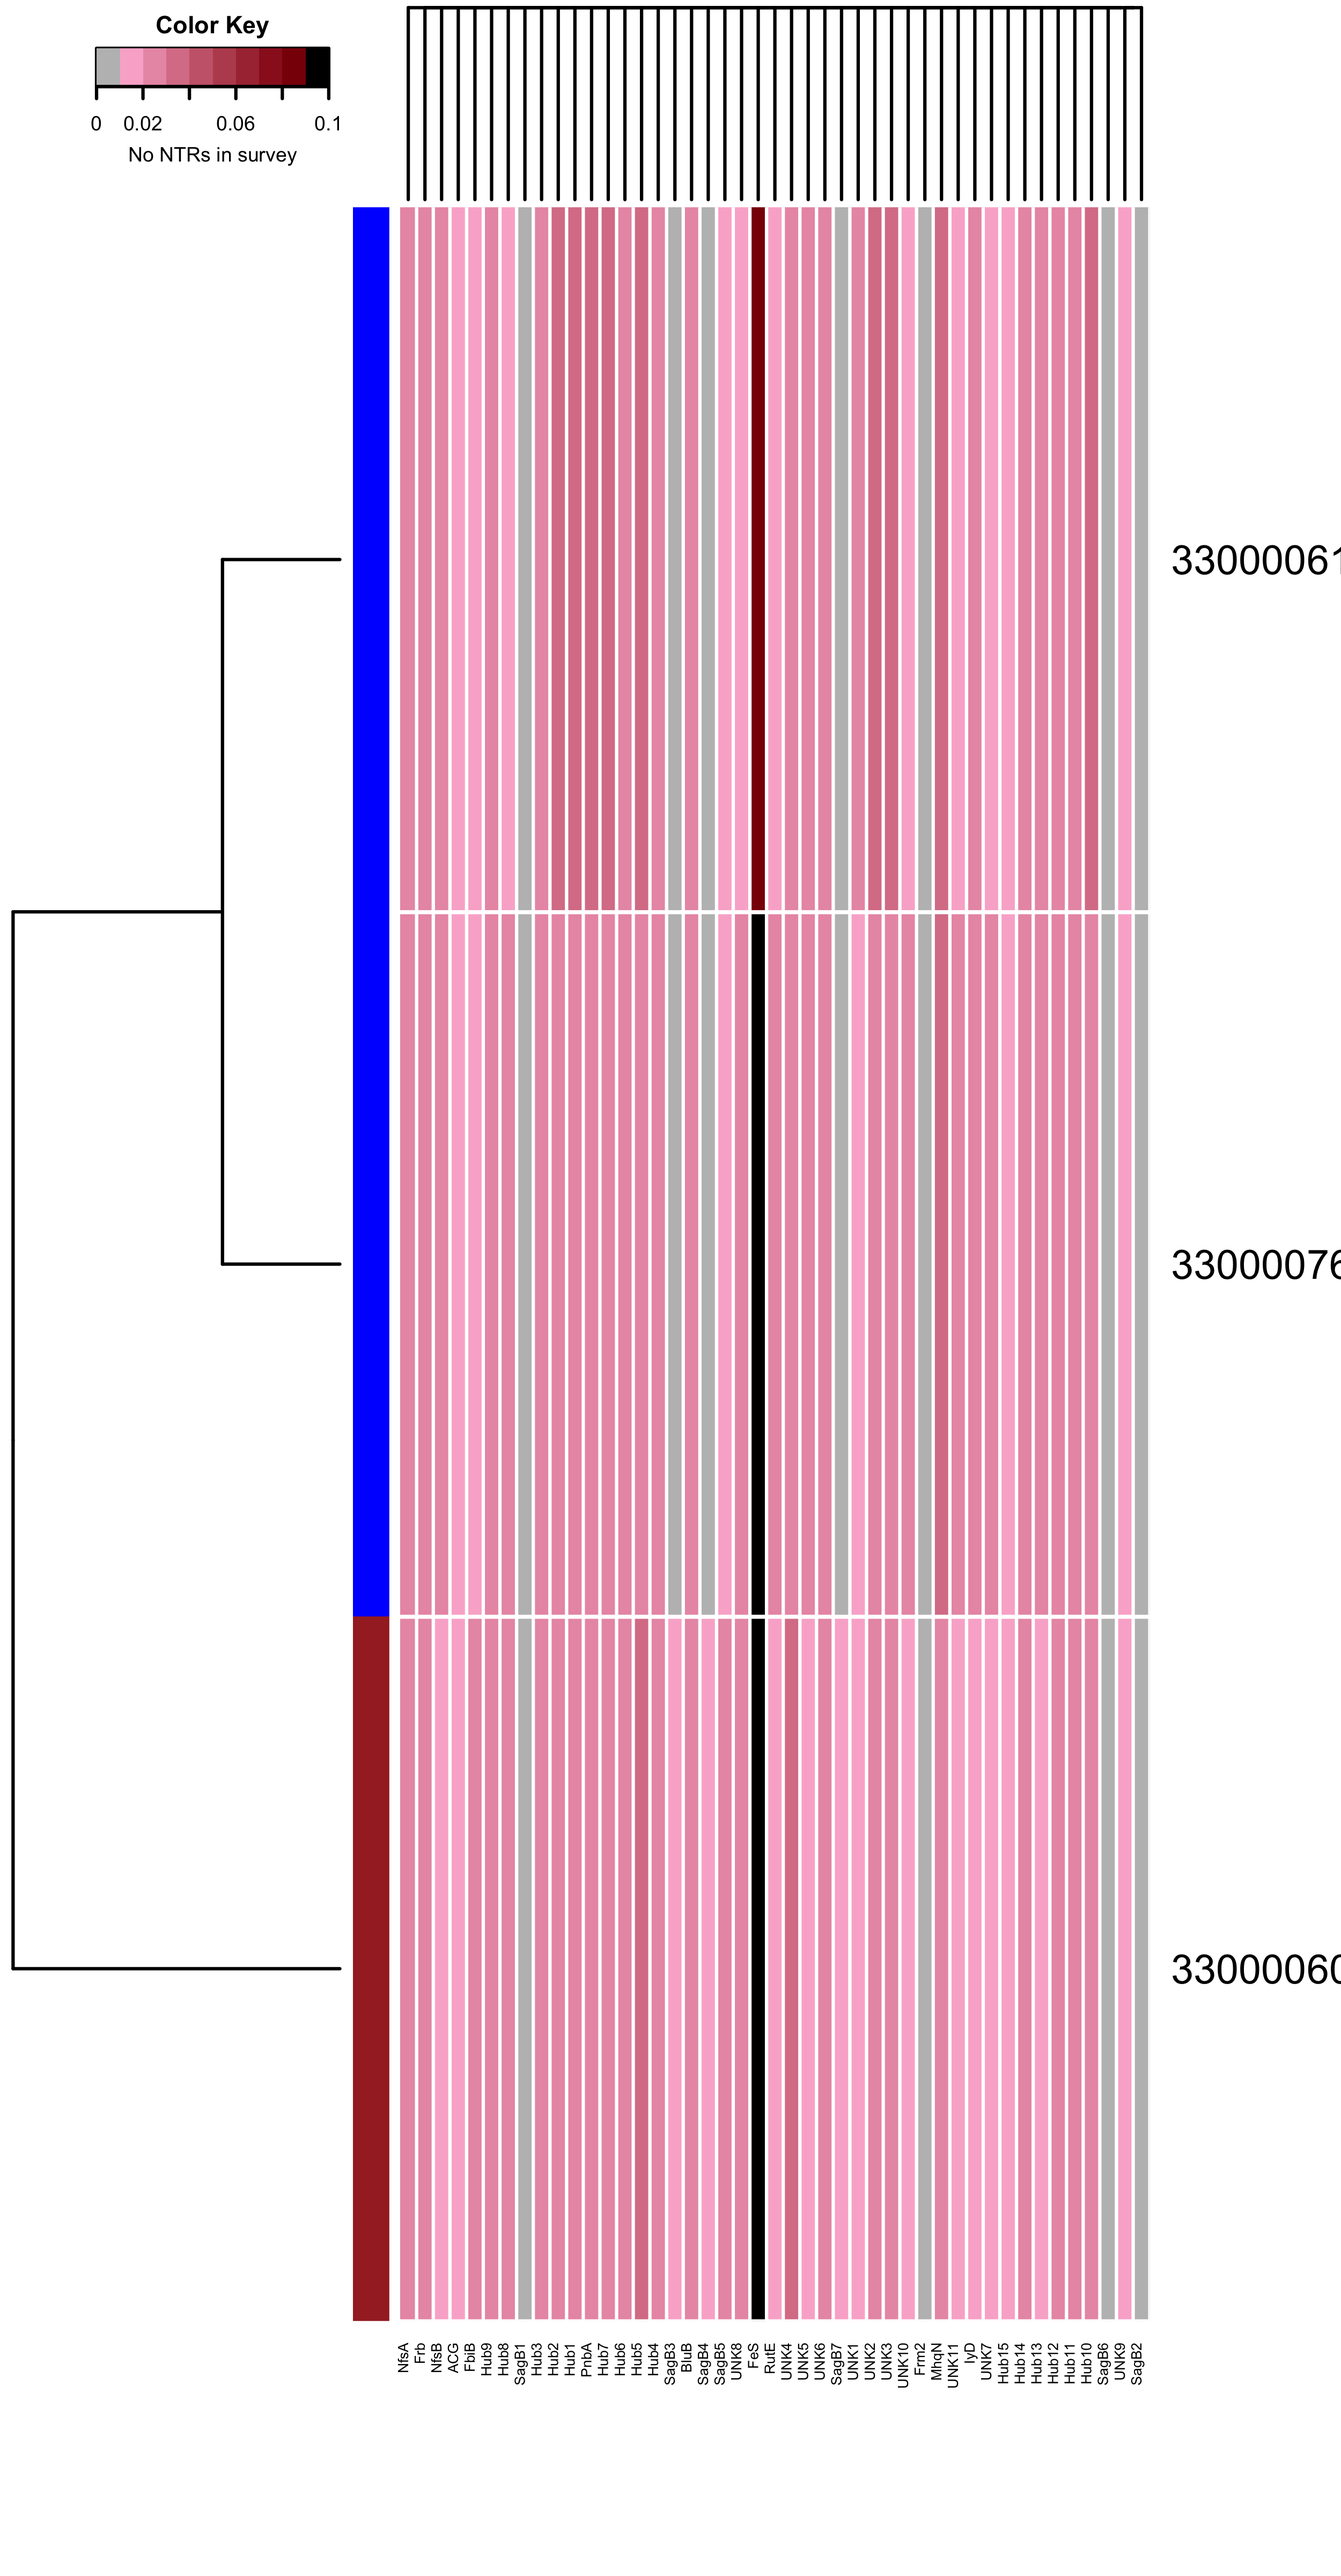
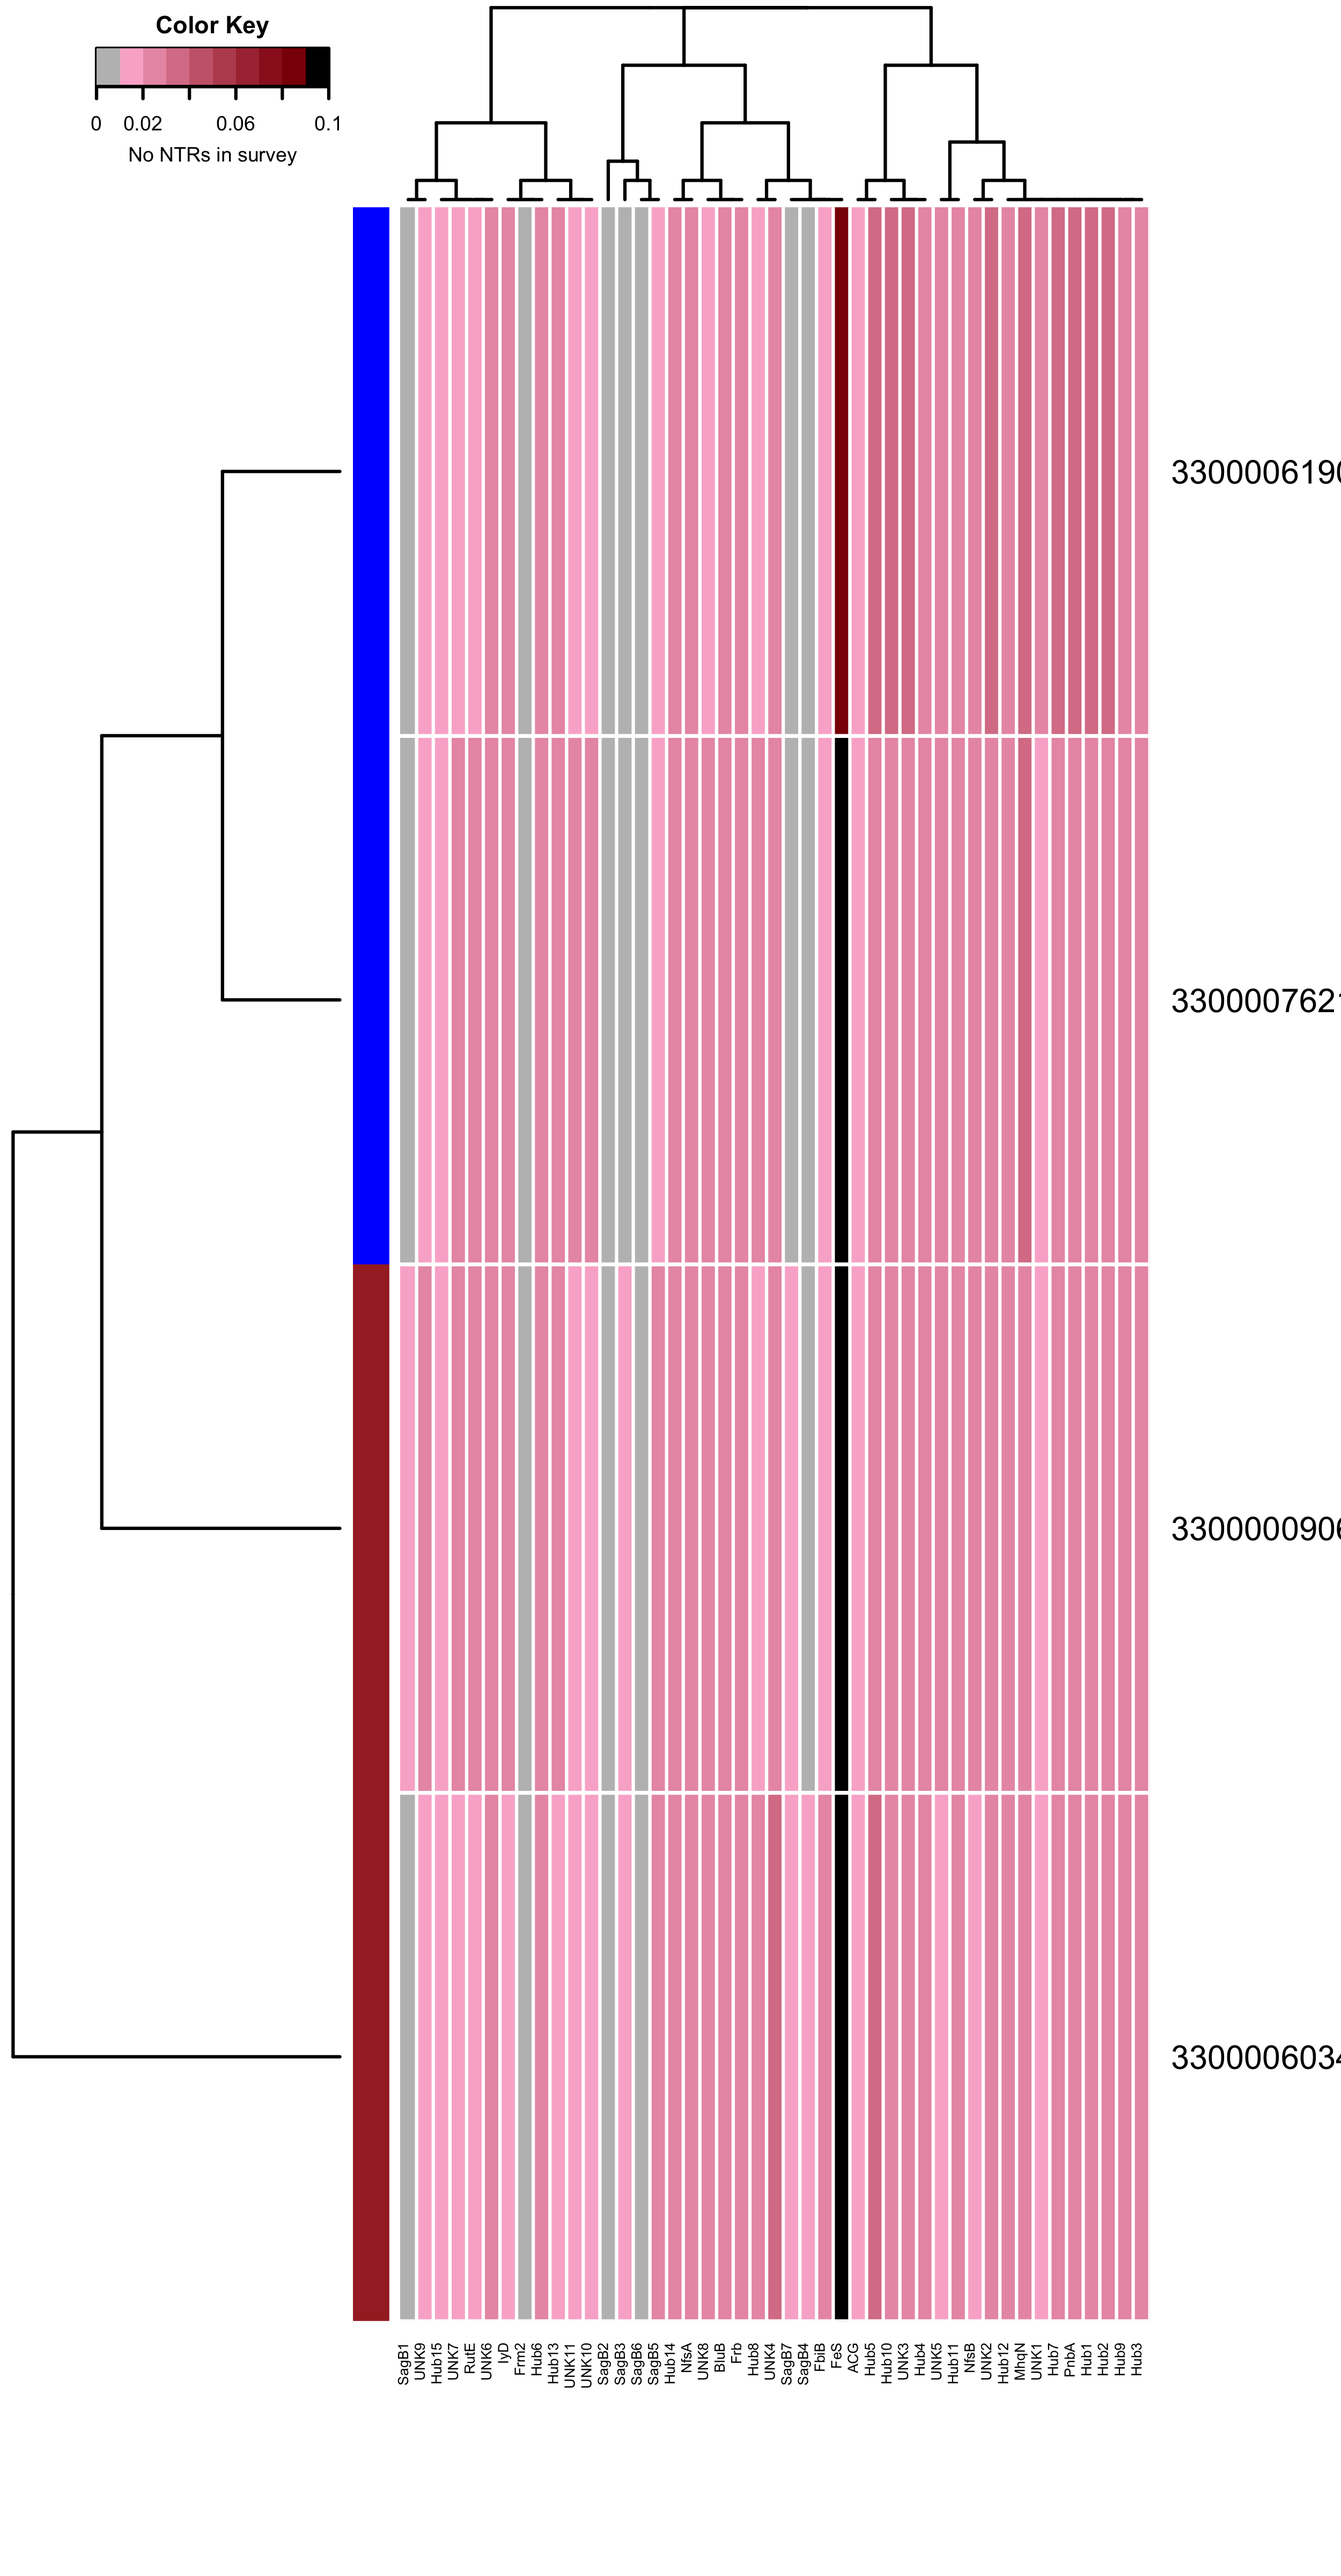
test 4

diff --git a/parse_search.py b/parse_search.py
@@ -6,6 +6,7 @@ import time
 import sys
 import getpass
 import argparse
+import collections
 
 import numpy as np 
 # import matplotlib.pyplot as plt
@@ -55,17 +56,21 @@ def parse(fa, out):
 					else: 
 						results[subgroup] += 1
 
-	return results 
+	print('unsorted: ', results)
+	return sorted(results.items(), key=lambda x: x[0])
 
 
 def write_results(fa, out, results, header):
 	with open(out, 'a') as f:
 		write = csv.writer(f, delimiter=',')
 		if header == False: 
-			subgroups = list(results.keys())
+			# subgroups = list(results.keys())
+			subgroups = [x[0] for x in results]
 			write.writerow([''] + subgroups)
 
-		val = list(results.values())
+		# val = list(results.values())
+		val = [x[1] for x in results]
+		print('val: ', val)
 		total = sum(val)
 		val[:] = [x / total for x in val]
 
@@ -127,7 +132,7 @@ def main():
 		fasta = [str(args.add)]
 		header = True
 	else: 
-		fasta = ['3300007621', '3300006190', '3300006034']
+		fasta = ['3300007621', '3300006190', '3300006034', '3300000906']
 		open(results_path, 'w').close()
 	
 	print(fasta)
@@ -138,6 +143,7 @@ def main():
 	for fa in fasta: 
 		hmmsearch(hmmsearch_path, hmm_path, fa, (fasta_path + fa + '/' + fa + '.a.faa'), searchout_path)
 		results = parse(fa, searchout_path)
+		print('results: ', results)
 		write_results(fa, results_path, results, header)
 		header = True
 
